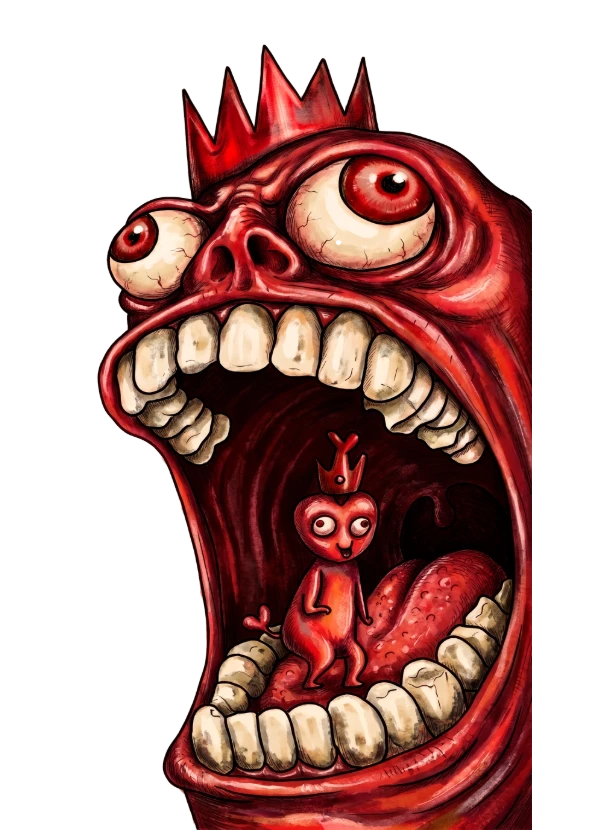
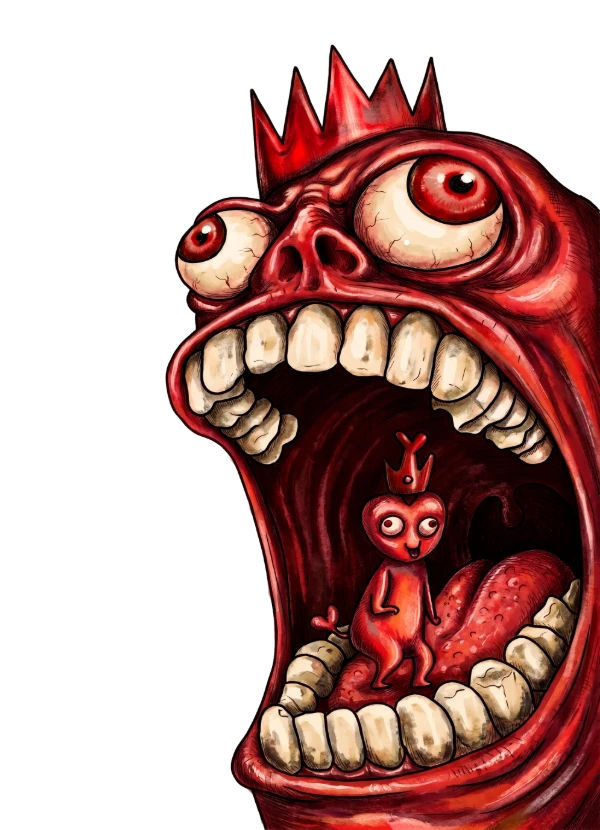
Rei de Copas encostado na direita da carta

diff --git a/index.html b/index.html
@@ -14,7 +14,7 @@
   <link rel="preload" href="arte/menu/papelao.webp" as="image">
   <link rel="preload" href="arte/menu/naipes.webp" as="image">
   <link rel="preload" href="arte/menu/logo.webp" as="image">
-  <link rel="stylesheet" href="estilo.css?v=202610282346">
+  <link rel="stylesheet" href="estilo.css?v=202610282349">
 </head>
 <body>
   <div id="palco">
@@ -67,20 +67,20 @@
   <div id="modal" hidden></div>
   <div id="dica" hidden></div>
 
-  <script defer src="js/idioma.js?v=202610282346"></script>
-  <script defer src="js/libs.js?v=202610282346"></script>
-  <script defer src="js/motor.js?v=202610282346"></script>
-  <script defer src="js/palhacos.js?v=202610282346"></script>
-  <script defer src="js/pesos.js?v=202610282346"></script>
-  <script defer src="js/bot.js?v=202610282346"></script>
-  <script defer src="js/cartas.js?v=202610282346"></script>
-  <script defer src="js/som.js?v=202610282346"></script>
-  <script defer src="js/dados3d.js?v=202610282346"></script>
-  <script defer src="js/decks.js?v=202610282346"></script>
-  <script defer src="js/regras.js?v=202610282346"></script>
-  <script defer src="js/rede.js?v=202610282346"></script>
-  <script defer src="js/decoracao.js?v=202610282346"></script>
-  <script defer src="js/tutorial.js?v=202610282346"></script>
-  <script defer src="js/interface.js?v=202610282346"></script>
+  <script defer src="js/idioma.js?v=202610282349"></script>
+  <script defer src="js/libs.js?v=202610282349"></script>
+  <script defer src="js/motor.js?v=202610282349"></script>
+  <script defer src="js/palhacos.js?v=202610282349"></script>
+  <script defer src="js/pesos.js?v=202610282349"></script>
+  <script defer src="js/bot.js?v=202610282349"></script>
+  <script defer src="js/cartas.js?v=202610282349"></script>
+  <script defer src="js/som.js?v=202610282349"></script>
+  <script defer src="js/dados3d.js?v=202610282349"></script>
+  <script defer src="js/decks.js?v=202610282349"></script>
+  <script defer src="js/regras.js?v=202610282349"></script>
+  <script defer src="js/rede.js?v=202610282349"></script>
+  <script defer src="js/decoracao.js?v=202610282349"></script>
+  <script defer src="js/tutorial.js?v=202610282349"></script>
+  <script defer src="js/interface.js?v=202610282349"></script>
 </body>
 </html>

diff --git a/js/cartas.js b/js/cartas.js
@@ -29,7 +29,7 @@ window.SS = window.SS || {};
   // Borda preta na beirada da carta: a do desenho é fina demais (cerca de 1 px numa carta da mão) e sumia.
   const BORDA = '<rect x="2.2" y="2.2" width="195.6" height="275.6" rx="15" fill="none" stroke="#141414" stroke-width="4.5"/>';
   // Versão das imagens das cartas (trocar quando um arquivo mudar com o mesmo nome, para o navegador não usar o antigo).
-  const V_ARTE = '?v=8';
+  const V_ARTE = '?v=9';
 
   // Fundo da carta: o creme liso de sempre. Com fundos desenhados (arte/cartas/fundo-<letra>.webp, feitos no gabarito
   // arte/cartas/gabarito), ponha as letras deles aqui: cada carta pega sempre a mesma variação (rank + naipe).
